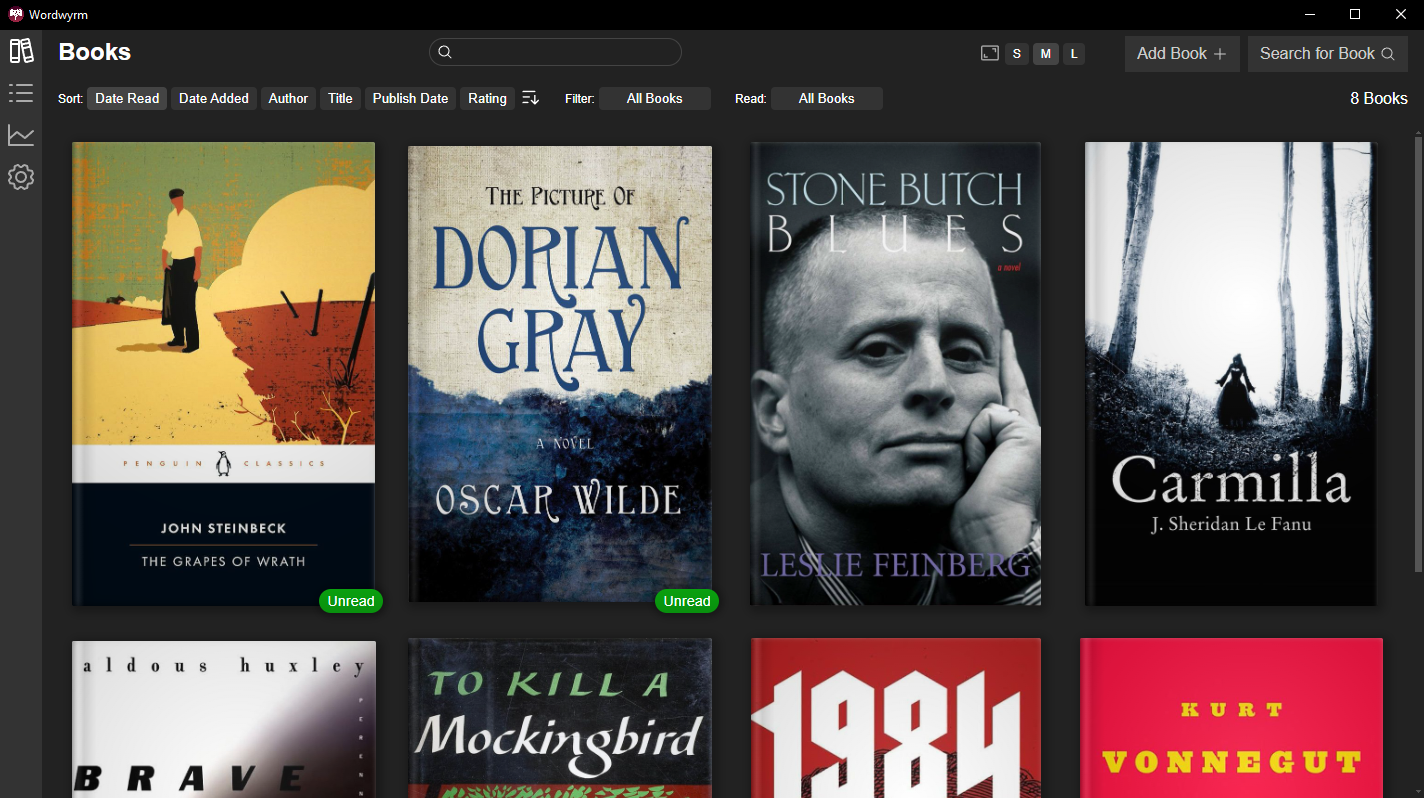
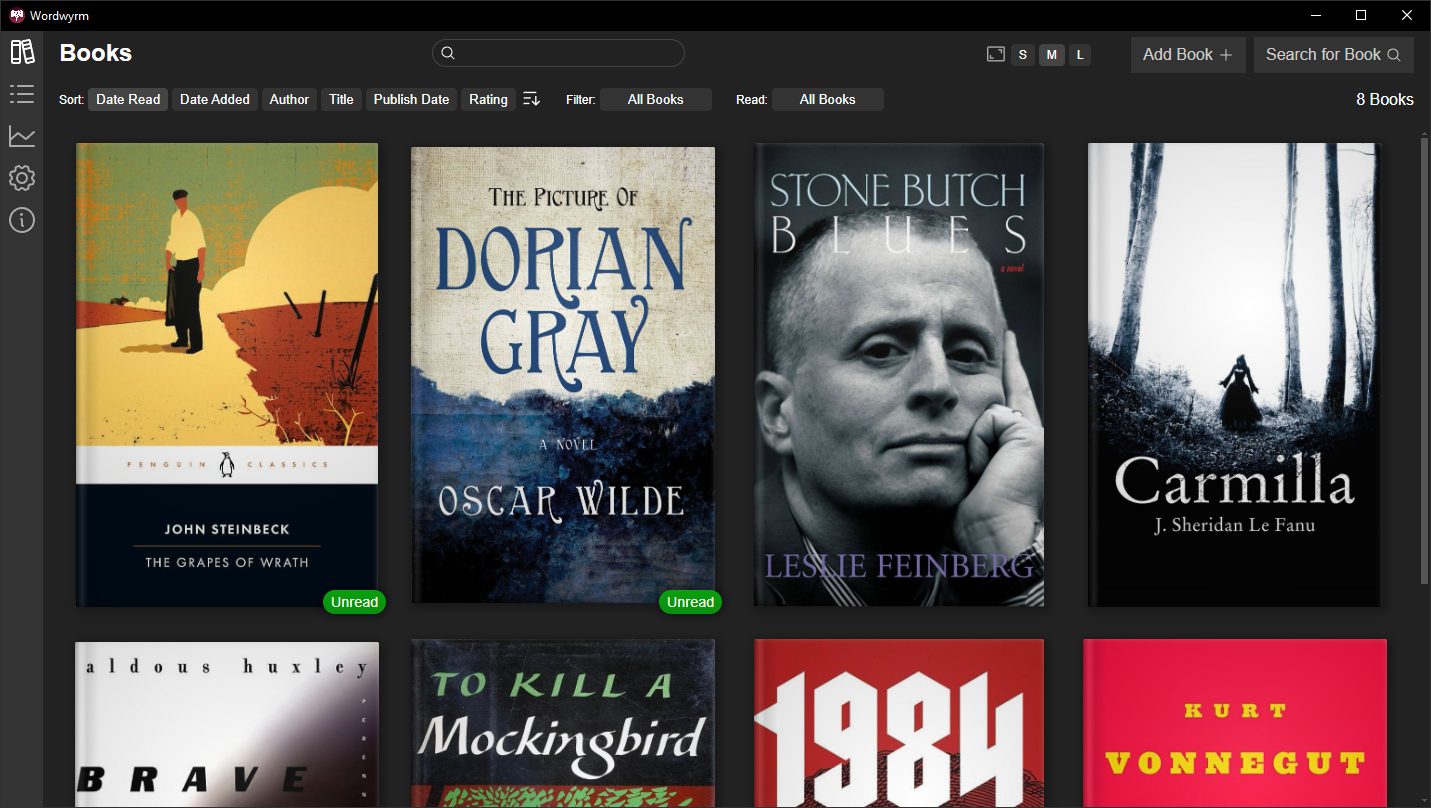
docs: update screenshots

diff --git a/README.md b/README.md
@@ -4,7 +4,7 @@ A cross-platform desktop app for tracking what books you've read and when. The d
 YAML files and JPGs in author directories in a location of your choosing, so you're always in
 control of your data.
 
-![](docs/screenshot-01-linux.png)
+![](docs/screenshot-02-windows.png)
 
 ## Data :open_file_folder:
 
